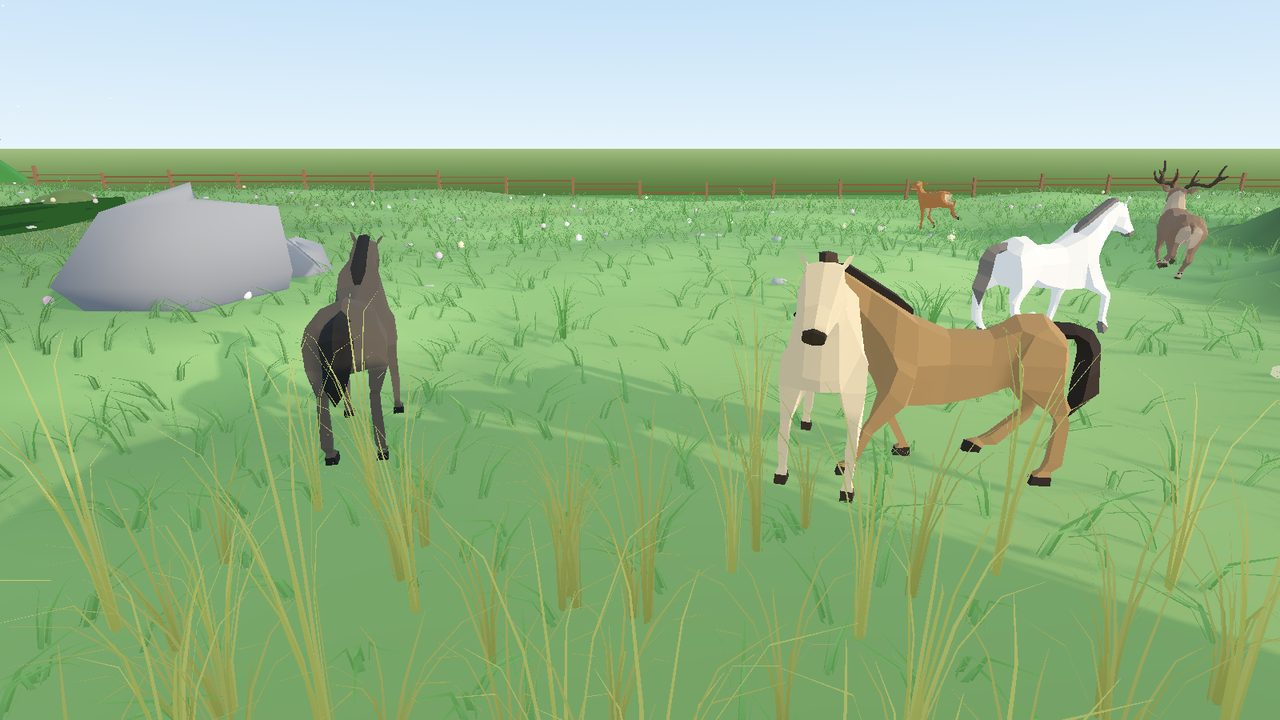
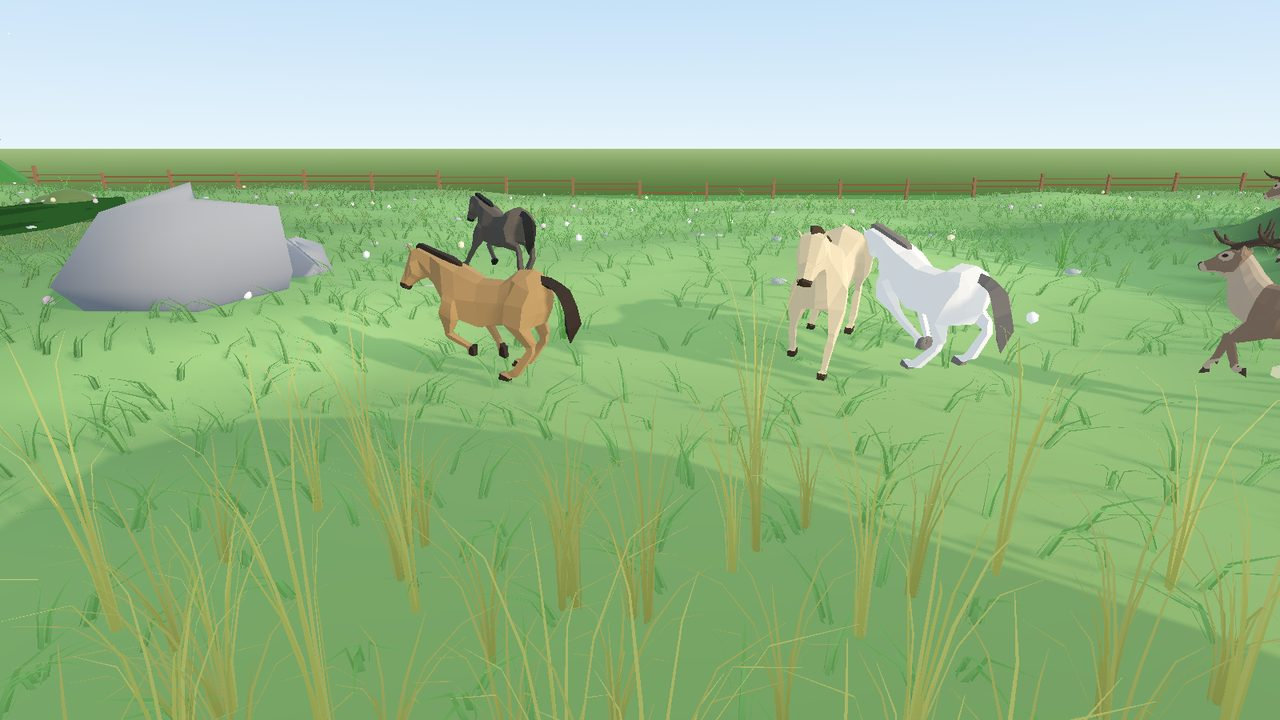
Nový úvodní snímek (koně se už neprolínají) a popis toho, co simulace počítá

diff --git a/index.html b/index.html
@@ -180,6 +180,61 @@ Když husa uteče, dá se dohledat proč.</p>
   Každý druh má vlastní smysly, rychlost, potravu a strach z ostatních.
 </p>
 
+<h2>Co všechno se v tom počítá</h2>
+<p style="color:var(--ink-dim)">Zvíře se nerozhoduje podle scénáře. Každou chvíli si boduje,
+co teď dává největší smysl, a vyhrává nejlepší nápad — proto se dva kusy stejného druhu
+zachovají pokaždé jinak.</p>
+
+<h3 style="margin-top:1.8rem">Smysly a paměť</h3>
+<ul class="plain">
+  <li><b>Zrak</b> má zorný kužel, dosah podle druhu a v noci se krátí. Z kopce je vidět dál,
+      při pastvě se hlava sklání a zvíře vidí míň. Porost a kopce výhled zaclánějí.</li>
+  <li><b>Čich</b> nese vítr: predátora ucítíš proti větru, po větru skoro vůbec. Vodu je cítit
+      násobně dál, než je vidět — proto ji stádo najde, i když na ni nedohlédne.</li>
+  <li><b>Sluch</b> podle hlučnosti: běžící zvíře, lov nebo syčící husa je slyšet i za zády
+      a přes porost. Sojka umí varovat celou louku.</li>
+  <li><b>Paměť</b> míst: kde byla tráva, voda, úkryt — a kde mě honili. Vzpomínky slábnou,
+      ale napajedlo si zvíře pamatuje dlouho, protože rybník se nestěhuje.</li>
+  <li><b>Zvyknutí</b>: na hluk, který se opakuje a nic po něm nepřijde, si zvíře zvykne.</li>
+</ul>
+
+<h3 style="margin-top:1.8rem">Rozmnožování a mláďata</h3>
+<ul class="plain">
+  <li><b>Páry</b> u druhů, které je tvoří (husa, holub, sojka, liška, vlk). Vlčí smečka má
+      jen jeden pár. Vdovec půl dne truchlí, pak si hledá nového partnera.</li>
+  <li><b>Hnízdo</b> je skutečný objekt s vejci — na stromě, u paty stromu, v porostu nebo v noře.
+      Pták na vejcích sedí, potřeby mu rostou pomaleji a odchází, až když už nemůže.
+      Když hnízdo nikdo nehřeje, vejce chladnou. Liška a kočka je vybírají a matka o tom ví.</li>
+  <li><b>Mláďata</b>: koloušek a zajíček první den leží schovaní a matka je chodí navštěvovat.
+      Ptáčata a mláďata šelem se sama neuživí — rodič jim nosí potravu, a když je jich moc,
+      dostane nejdřív ten nejprůbojnější. Sirotek hladoví. Mládě v dešti bez úkrytu prochladne.</li>
+  <li><b>Učení</b>: mládě přebírá od matky, kde je voda, úkryt a kde je nebezpečno.</li>
+  <li><b>Příbuznost</b>: rodokmen se drží a příbuzní se nepáří.</li>
+</ul>
+
+<h3 style="margin-top:1.8rem">Potrava a potřeby</h3>
+<ul class="plain">
+  <li><b>Tráva</b> je skutečná zásoba: spasené místo se dorůstá, v zimě neroste. Stádo,
+      které stojí moc dlouho na jednom místě, si ho vypase.</li>
+  <li><b>Voda</b>: pije se z okraje, velké zvíře dosáhne z břehu dál než husa.
+      Napije se dosyta, ne jen na chvíli. Zamrzlý rybník pití nezastaví, jen zpomalí.</li>
+  <li><b>Lov</b>: predátor si vybírá kořist podle druhu, vzdálenosti a toho, jestli je osamělá.
+      Plíží se, útočí zblízka, sprint mu dojde. Husy ho můžou zahnat, když jsou ve skupině.
+      Vlk nechá zbytek úlovku ležet a chodí se k němu vracet.</li>
+  <li><b>Hlad, žízeň, únava, potřeba společnosti, ostražitost, strach a páření</b> rostou různě
+      rychle podle druhu a proti sobě soupeří.</li>
+</ul>
+
+<h3 style="margin-top:1.8rem">Prostředí</h3>
+<ul class="plain">
+  <li><b>Roční období</b>: rok trvá šestnáct dnů. V zimě zamrzne rybník (husy tím ztrácejí
+      útočiště a vlk přejde po ledu), tráva neroste a stromy jsou holé.</li>
+  <li><b>Voda</b> má hloubku: rybníkem neplavec neprojde a obchází ho, mělčinou a brodem projde
+      každý, proud v potoce unáší. Padlá kláda je pro neplavce jediná cesta přes tok.</li>
+  <li><b>Kopce</b> mají místy sráz, který přeleze jen kočka. Z vrcholu je dál vidět.</li>
+  <li><b>Vítr a déšť</b> se mění samy a jde je na chvíli převzít. Vítr rozhoduje o čichu.</li>
+</ul>
+
 <h2>Ovládání</h2>
 <ul class="plain">
   <li><b>WASD</b> posun kamery · <b>kolečko</b> přiblížení · <b>Q/E</b> otáčení</li>
